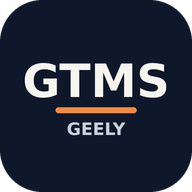
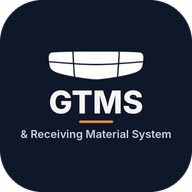
Add files via upload

Changed region(s): [[0.125, 0.25, 0.875, 0.5938], [0.0938, 0.625, 0.9062, 0.75]]

diff --git a/sw.js b/sw.js
@@ -1,4 +1,4 @@
-const CACHE = 'geely-tms-v1';
+const CACHE = 'geely-tms-v2';
 const FILES = ['./', './index.html', './manifest.json', './icon-192.png', './icon-512.png'];
 
 self.addEventListener('install', (e) => {
